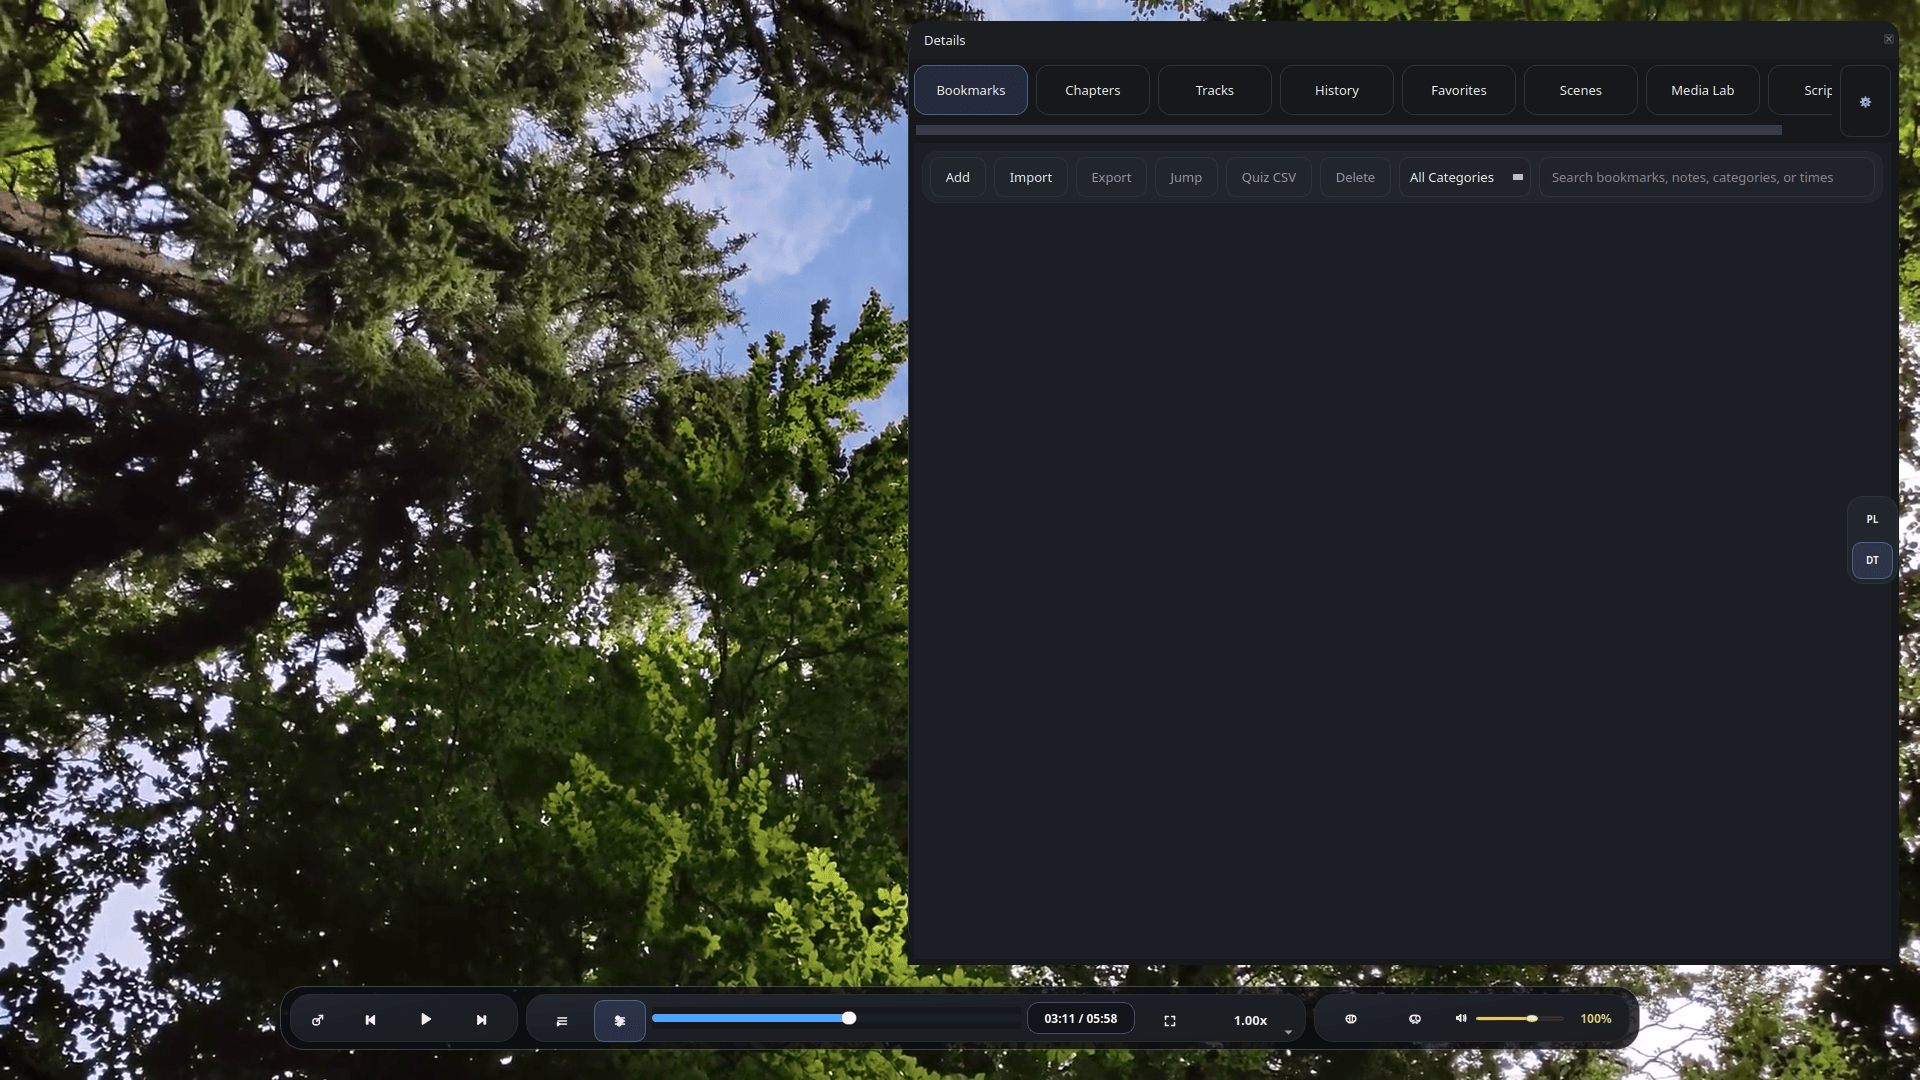
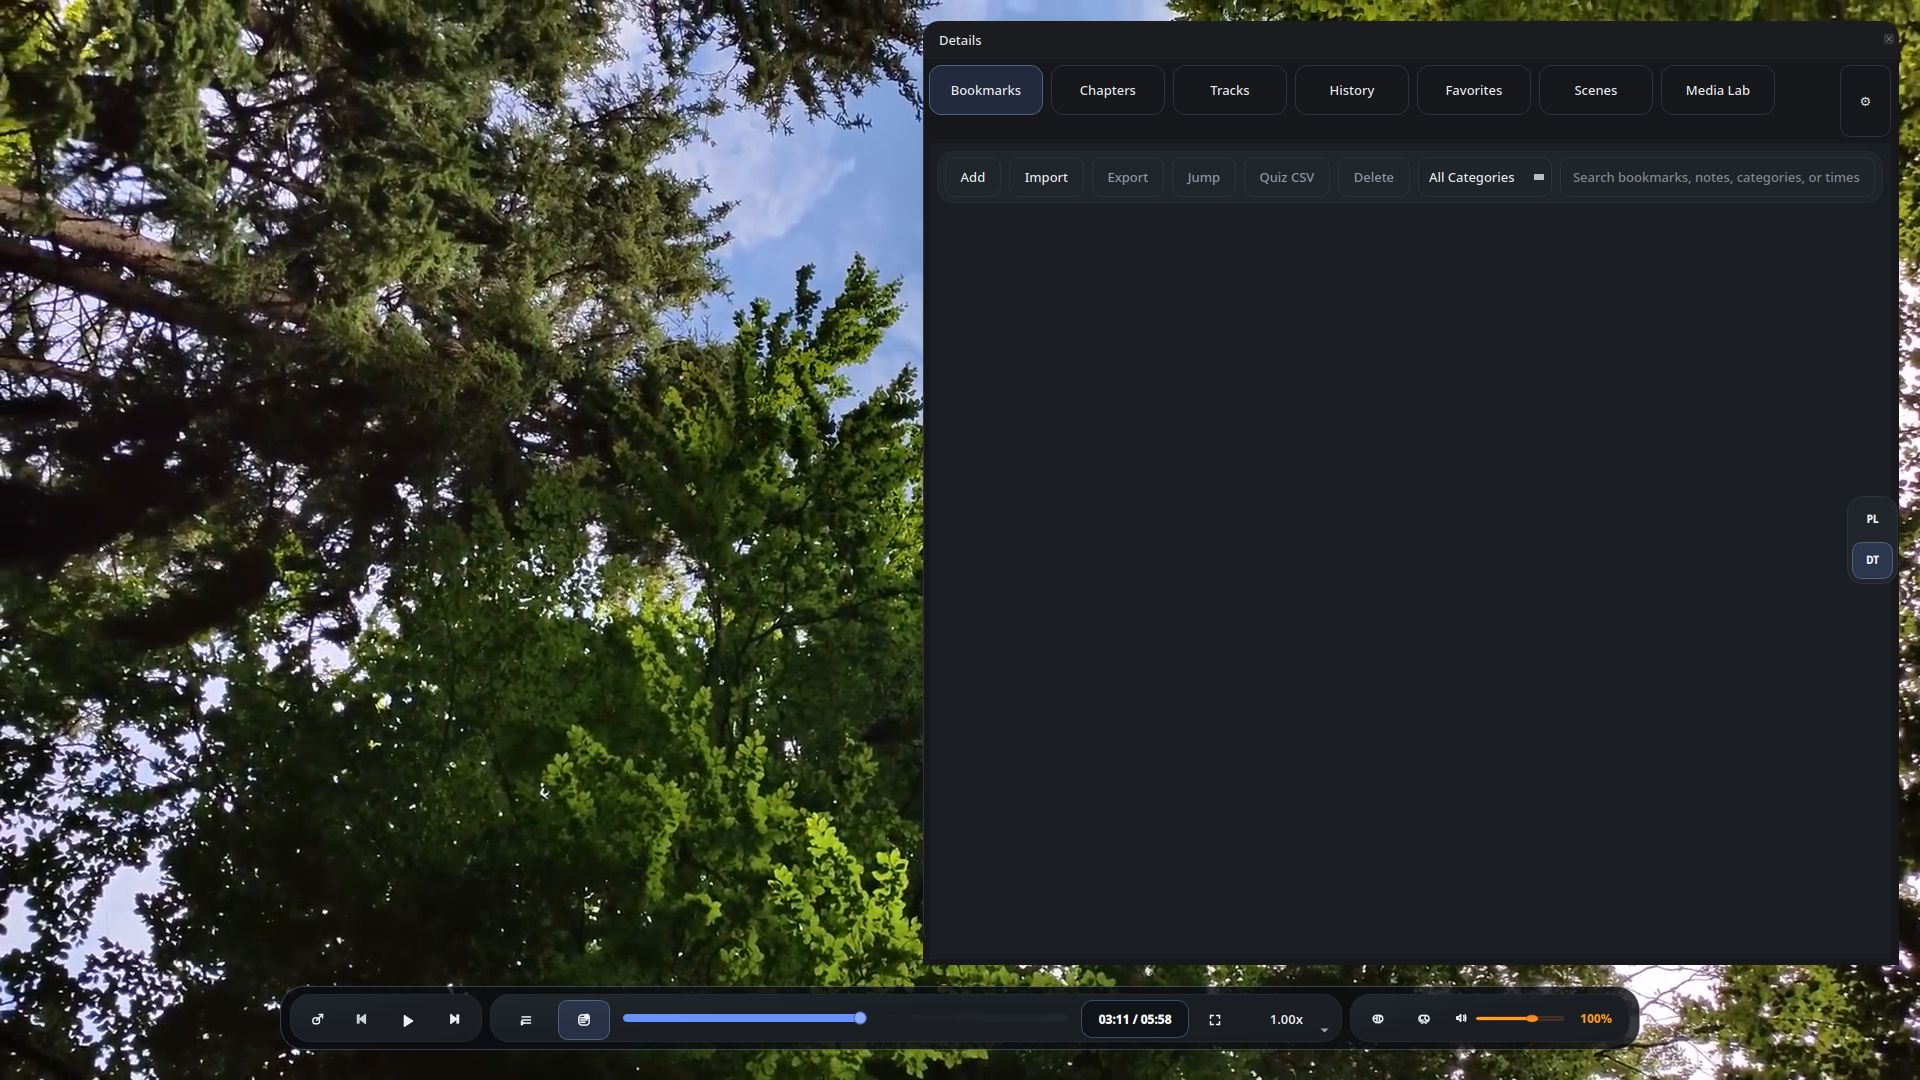
some edits

Changed region(s): [[0.0, 0.0, 1.0, 1.0]]

diff --git a/README.md b/README.md
@@ -2,7 +2,7 @@
   <img src="resources/icons/revaplayer.svg" alt="Reva Player logo" width="112">
 </p>
 
-# Reva Player
+# 🎬 Reva Player
 
 Reva Player is an open-source Linux desktop media player for people who spend
 real time with local media: courses, lectures, recordings, playlists,
@@ -18,7 +18,11 @@ version 3 or later (`GPL-3.0-or-later`). See [LICENSE](LICENSE).
 
 Repository: [github.com/Moayad30/Reva_Player](https://github.com/Moayad30/Reva_Player)
 
-## Preview
+⭐ If Reva Player is useful to you, please consider giving the repository a star
+on GitHub. Stars help more Linux users discover the project and show that there
+is real interest in continued development.
+
+## 🖼 Preview
 
 <p align="center">
   <img src="docs/screenshots/main-window.png" alt="Reva Player main playback window" width="860">
@@ -36,7 +40,7 @@ Repository: [github.com/Moayad30/Reva_Player](https://github.com/Moayad30/Reva_P
   <img src="docs/screenshots/settings.png" alt="Reva Player settings window" width="720">
 </p>
 
-## Download
+## 📦 Download
 
 Ready-to-use Linux packages are published from
 [GitHub Releases](https://github.com/Moayad30/Reva_Player/releases) when
@@ -44,14 +48,14 @@ available.
 
 Typical release assets may include:
 
-- AppImage for portable Linux testing.
-- DEB for Debian/Ubuntu-family distributions.
-- RPM for RPM-family distributions.
+- 📦 AppImage for portable Linux testing.
+- 🧩 DEB for Debian/Ubuntu-family distributions.
+- 🧰 RPM for RPM-family distributions.
 
 Download the package that fits your system, open your media, and keep your
 playlists, progress, bookmarks, and subtitles organized in one local workspace.
 
-## Quick Start
+## ⚡ Quick Start
 
 ### AppImage
 
@@ -76,100 +80,181 @@ RevaPlayer
 
 For package-specific notes, see [docs/packaging/README.md](docs/packaging/README.md).
 
-## Why Reva Player
+## 💡 Why Reva Player
 
 Most media players are excellent at opening a file and getting out of the way.
 Reva Player is for the sessions that need more structure: a lecture series,
 course folder, playlist, subtitle-heavy archive, long recording, or any local
 media collection where remembering context matters.
 
-- **A playback workspace, not just a video window.** Keep playlists, saved
+- 🧭 **A playback workspace, not just a video window.** Keep playlists, saved
   folders, history, bookmarks, thumbnails, screenshots, and settings together in
   one local desktop app.
-- **Built around repeated viewing.** Continue where you left off, move through
+- 🔁 **Built around repeated viewing.** Continue where you left off, move through
   folders naturally, and keep useful viewing context across sessions.
-- **Track progress across a playlist or series.** See completion across the
-  current list, including watched time and total known duration when media
-  metadata is available.
-- **Serious subtitle controls.** Adjust visibility, timing, scale, position,
+- 📊 **Track progress across a playlist or series.** See completion across the
+  current list, including watched time, full-playlist progress percentage, and
+  automatically calculated total playlist duration when media metadata is
+  available.
+- 💬 **Serious subtitle controls.** Adjust visibility, timing, scale, position,
   language preferences, font behavior, and styling options from the app.
-- **Bookmarks for real moments.** Save timestamps with titles, categories, and
+- 🔖 **Bookmarks for real moments.** Save timestamps with titles, categories, and
   notes so important scenes, lessons, or references are easy to return to.
-- **Power-user playback controls.** Use libmpv-backed playback with speed,
+- 🎛 **Power-user playback controls.** Use libmpv-backed playback with speed,
   volume, mute, repeat, seeking, track selection, aspect ratio, zoom, and pan.
-- **Local-first by design.** No account, no cloud library, no media server
+- 🔒 **Local-first by design.** No account, no cloud library, no media server
   requirement. Your playback state is stored locally in SQLite.
-- **Native Linux distribution path.** The repository includes Linux desktop
+- 🖥 **Native Linux distribution path.** The repository includes Linux desktop
   metadata and packaging paths for AppImage, DEB, and RPM-family systems.
 
-## Feature Highlights
+## 🎯 Designed For
+
+Reva Player is especially useful when playback is part of a larger workflow,
+not just a one-off file open.
+
+- 🎓 Course and lecture playlists where progress across the whole series matters.
+- ⏱ Long recordings that need reliable resume positions and repeat viewing.
+- 🗂 Local video folders that should stay organized between sessions.
+- 💬 Subtitle-heavy media where timing, size, position, and language preferences
+  need quick adjustment.
+- 🔖 Review sessions where bookmarks, notes, screenshots, and thumbnails help you
+  return to important moments.
+- 🔒 Privacy-conscious local media use where an account, cloud library, or media
+  server would be unnecessary.
+
+## ✨ Key Features
+
+- 📊 **Playlist intelligence.** Reva Player can calculate the total duration of
+  the current playlist automatically when metadata is available, and it shows
+  progress across the playlist as a percentage.
+- 🔁 **Resume and continuity.** Playback history, watched duration, resume
+  positions, window state, and preferences are kept locally so repeated sessions
+  can continue with less setup.
+- 🗂 **Folder-oriented workflow.** Open files or folders, keep saved folders, and
+  return to media collections without rebuilding the same context every time.
+- 🔖 **Bookmarks with context.** Save meaningful timestamps with titles,
+  categories, and notes for lessons, scenes, references, or review points.
+- 💬 **Subtitle control.** Load external subtitles, switch tracks, adjust timing,
+  scale, position, language defaults, and styling options from the app.
+- 🖼 **Viewing tools.** Use screenshots, thumbnails, zoom, pan, aspect ratio,
+  speed, repeat, volume, mute, seeking, and track selection in one native Linux
+  interface.
+- 💾 **Local persistence.** Settings and playback state are stored in SQLite using
+  standard Qt/XDG application paths.
+
+## 🧭 What Makes It Different
+
+Reva Player uses libmpv for playback, but it adds a local workspace around that
+backend. The app is designed to remember what matters around the video: the
+playlist, where you stopped, how much of the list is done, which folders you
+return to, which subtitle behavior you prefer, and which moments you saved.
+
+That makes it a practical fit for long-form local media, learning material,
+archives, and repeated review workflows where the surrounding context is as
+important as the playback engine.
+
+## 📋 Feature Highlights
 
 | Area | Purpose |
 | --- | --- |
-| Playback | Local video/audio playback through libmpv, plus media URLs supported by mpv. |
-| Library workflow | File and folder playlists, saved folders, current-list context, and progress across a playlist or series. |
-| Continuity | Local history, resume positions, watched duration, total known duration, window state, and playback preferences across sessions. |
-| Bookmarks | Timestamped notes with title and category fields for returning to meaningful moments. |
-| Subtitles | External subtitle loading, track selection, timing, style, scale, position, and language controls. |
-| Viewing tools | Zoom, pan, aspect ratio, speed, repeat, screenshots, thumbnails, and configurable capture path. |
-| Desktop integration | Linux desktop entry, AppStream metadata, scalable icon, and package-friendly install layout. |
+| 🎬 Playback | Local video/audio playback through libmpv, plus media URLs supported by mpv. |
+| 🗂 Library workflow | File and folder playlists, saved folders, current-list context, progress percentage across a playlist or series, and automatic total playlist duration calculation. |
+| 🔁 Continuity | Local history, resume positions, watched duration, total known duration, window state, and playback preferences across sessions. |
+| 🔖 Bookmarks | Timestamped notes with title and category fields for returning to meaningful moments. |
+| 💬 Subtitles | External subtitle loading, track selection, timing, style, scale, position, and language controls. |
+| 🖼 Viewing tools | Zoom, pan, aspect ratio, speed, repeat, screenshots, thumbnails, and configurable capture path. |
+| 🖥 Desktop integration | Linux desktop entry, AppStream metadata, scalable icon, and package-friendly install layout. |
 
-## Built For Linux
+## 🖥 Built For Linux
 
 Reva Player is focused exclusively on Linux desktop systems.
 
 | Platform/package | Status |
 | --- | --- |
-| Linux source code | Supported |
-| AppImage | Available |
-| DEB | Available |
-| RPM | Available |
-| Flatpak | Not available yet |
+| Linux source code | ✅ Supported |
+| AppImage | ✅ Available |
+| DEB | ✅ Available |
+| RPM | ✅ Available |
+| Flatpak | 🚧 Not available yet |
 
 Compatibility still depends on the target distribution, desktop environment,
 GPU/OpenGL stack, audio stack, codecs, Qt plugins, and bundled or system libmpv
 runtime. See [docs/COMPATIBILITY_MATRIX.md](docs/COMPATIBILITY_MATRIX.md) for
 current packaging notes.
 
-## Local Data
+## 🛠 Build From Source
 
-Reva Player stores application data locally. It does not require an online
-account or online service.
+Developer and packager build instructions are documented in
+[docs/BUILDING.md](docs/BUILDING.md). The project uses CMake and C++20, with Qt
+6 as the default Qt target and Qt 5 available through the documented CMake
+option.
+
+Basic development build:
+
+```bash
+cmake -S . -B build
+cmake --build build --parallel
+./build/RevaPlayer
+```
+
+Main build requirements include CMake, a C++20 compiler, Qt Widgets, Qt Sql,
+Qt DBus, Qt OpenGL modules, libmpv development files, and the Qt SQLite driver.
+
+## 🔒 Local Data
+
+Reva Player is local-first. It does not require an online account, cloud
+library, or remote media server, and it does not need to upload your local media
+library to be useful.
 
 Stored local data can include:
 
-- Settings.
-- Playback history.
-- Resume positions.
-- Bookmarks.
-- Window/layout state.
-- Saved folders and playlist-related preferences.
-- Thumbnail/cache data.
+- ⚙ Settings.
+- 🕘 Playback history.
+- 🔁 Resume positions.
+- 🔖 Bookmarks.
+- 🪟 Window/layout state.
+- 🗂 Saved folders and playlist-related preferences.
+- 🖼 Thumbnail/cache data.
+
+Package uninstall and local-data cleanup are separate operations. Removing the
+application should not remove playback history, settings, bookmarks, resume
+positions, or cache unless cleanup is explicitly requested.
 
 For storage paths and cleanup notes, see
 [docs/reference/STORAGE_PATHS.md](docs/reference/STORAGE_PATHS.md) and
 [docs/reference/PURGE_LOCAL_DATA.md](docs/reference/PURGE_LOCAL_DATA.md).
 
-## Release Notes
+## 🚧 Project Status
 
-- [GitHub release text for v1.0.0](RELEASE_NOTES_v1.0.0.md)
-- [Release build notes](docs/packaging/RELEASE_BUILDS.md)
-- [Packaging overview](docs/packaging/README.md)
+Reva Player is focused on Linux desktop use and currently provides source code
+and release packaging paths for AppImage, DEB, and RPM-family packages.
+Flatpak support is not available yet.
 
-## Documentation
+The project is still shaped by real Linux packaging and runtime testing. Codec
+support, subtitle behavior, GPU/OpenGL rendering, and desktop integration can
+depend on the bundled or system Qt, libmpv, FFmpeg, platform plugins, and target
+distribution.
 
-- [User Guide](docs/USER_GUIDE.md)
-- [Packaging](docs/packaging/README.md)
-- [QA Checklist](docs/QA_CHECKLIST.md)
-- [Architecture](docs/ARCHITECTURE.md)
-- [Third-party notices](THIRD_PARTY_NOTICES.md)
+## 📝 Release Notes
 
-## Contributing
+- 📝 [GitHub release text for v1.0.0](RELEASE_NOTES_v1.0.0.md)
+- 🧱 [Release build notes](docs/packaging/RELEASE_BUILDS.md)
+- 📦 [Packaging overview](docs/packaging/README.md)
+
+## 📚 Documentation
+
+- 📖 [User Guide](docs/USER_GUIDE.md)
+- 📦 [Packaging](docs/packaging/README.md)
+- ✅ [QA Checklist](docs/QA_CHECKLIST.md)
+- 🧱 [Architecture](docs/ARCHITECTURE.md)
+- 📄 [Third-party notices](THIRD_PARTY_NOTICES.md)
+
+## 🤝 Contributing
 
 Reva Player is an open-source Linux desktop project. Contributions, feedback,
 testing, and practical improvements are welcome.
 
-## License
+## 📄 License
 
 Reva Player is licensed under `GPL-3.0-or-later`.
 
